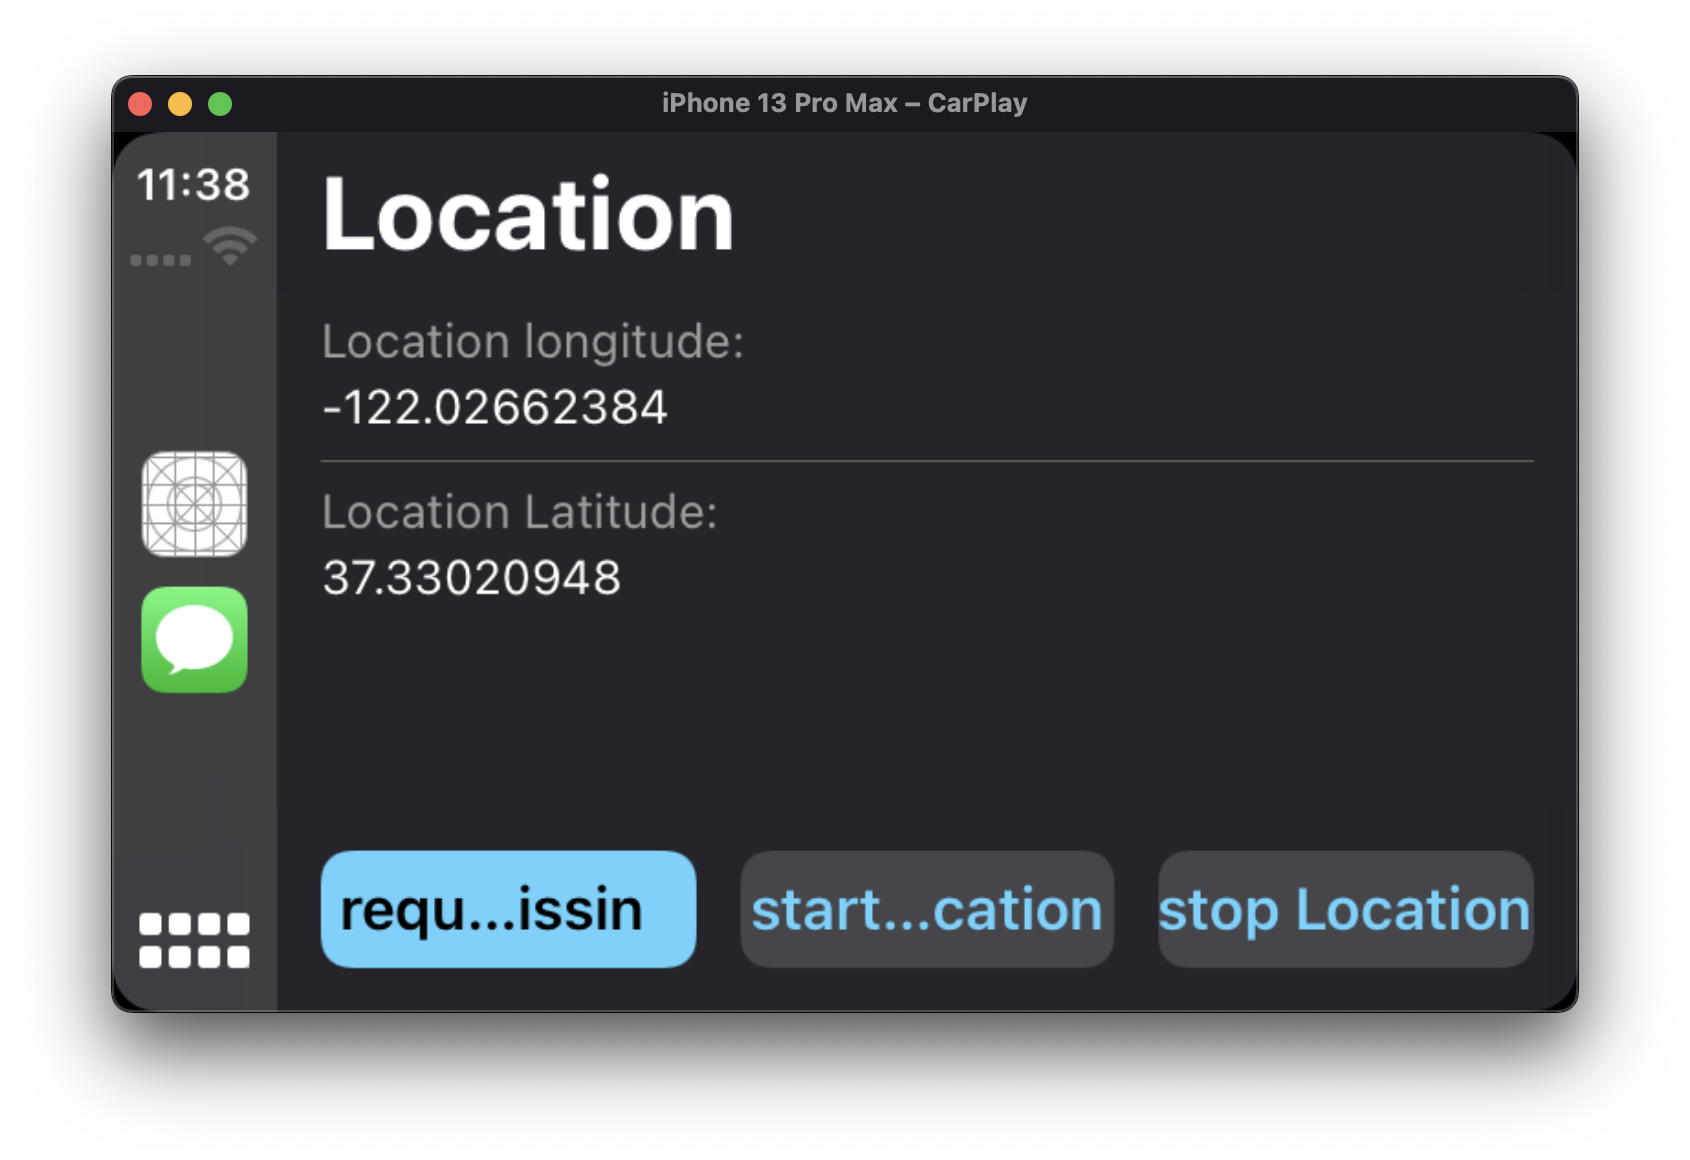
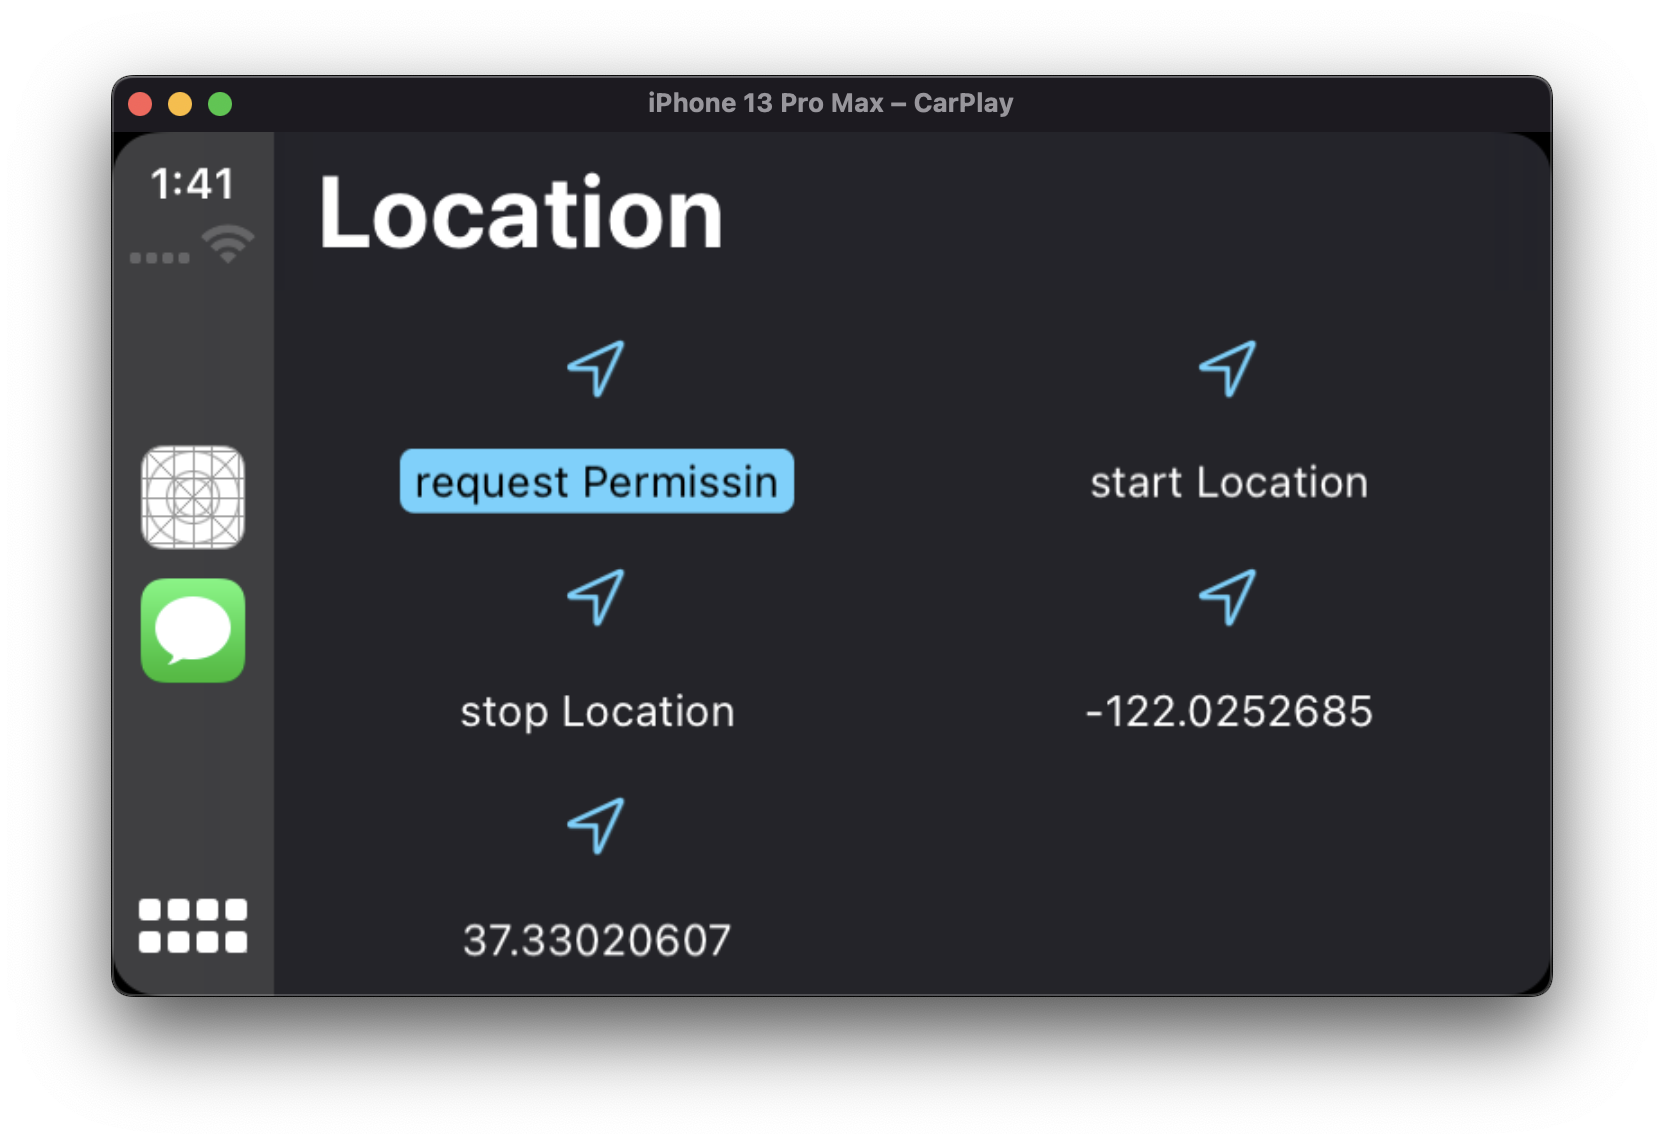
位置情報をトリガーにGridで情報を表示

diff --git a/CarSample/CarPlaySceneDelegate.swift b/CarSample/CarPlaySceneDelegate.swift
@@ -64,21 +64,33 @@ class CarPlaySceneDelegate: UIResponder, CPTemplateApplicationSceneDelegate {
         })
     }
     
+    
+    
+    private var systemImageNames = ["pencil.tip", "folder", "doc", "location", "person.3", "airplane", "bolt.car", "bus.doubledecker", "bicycle"]
+    
     private func setRootTemplate(longitude: String, latitude: String) {
+        
+        let imaegname = systemImageNames.randomElement() ?? "location"
         // UIの設定
-        let requestPermissionButton:CPTextButton = .init(title: "request Permissin", textStyle: .normal, handler: {_ in
+        let requestPermissionButton:CPGridButton = .init(titleVariants: ["request Permissin"], image: UIImage(systemName: imaegname)!, handler: { _ in
             self.model.requestAuthorization()
         })
-        let startLocationButton:CPTextButton = .init(title: "start Location", textStyle: .normal, handler: { _ in
+        let startLocationButton:CPGridButton = .init(titleVariants: ["start Location"], image: UIImage(systemName: imaegname)!, handler: { _ in
             self.model.startTracking()
         })
-        let stopLocationButton:CPTextButton = .init(title: "stop Location", textStyle: .normal, handler: { _ in
+        let stopLocationButton:CPGridButton = .init(titleVariants: ["stop Location"], image: UIImage(systemName: imaegname)!, handler: { _ in
             self.model.stopTracking()
         })
-        let longitudeItem: CPInformationItem = .init(title: "Location longitude: ", detail: String(longitude))
-        let latitudeItem: CPInformationItem = .init(title: "Location Latitude: ", detail: String(latitude))
+        
+        let longitudeItem:CPGridButton = .init(titleVariants: [String(longitude)], image: UIImage(systemName: imaegname)!, handler: { _ in
+            print("clicked longitudeItem")
+        })
+        let latitudeItem:CPGridButton = .init(titleVariants: [String(latitude)], image: UIImage(systemName: imaegname)!, handler: { _ in
+            print("clicked latitudeItem")
+        })
+        
+        let gridTemplate:CPGridTemplate = .init(title: "Location", gridButtons: [requestPermissionButton, startLocationButton, stopLocationButton, longitudeItem, latitudeItem])
         // 位置情報の許可ステータスの表示
-        let informationTemplate:CPInformationTemplate = .init(title: "Location", layout: .leading, items: [longitudeItem, latitudeItem], actions: [requestPermissionButton, startLocationButton, stopLocationButton])
-        self.interfaceController!.setRootTemplate(informationTemplate, animated: false)
+        self.interfaceController!.setRootTemplate(gridTemplate, animated: false)
     }
 }
